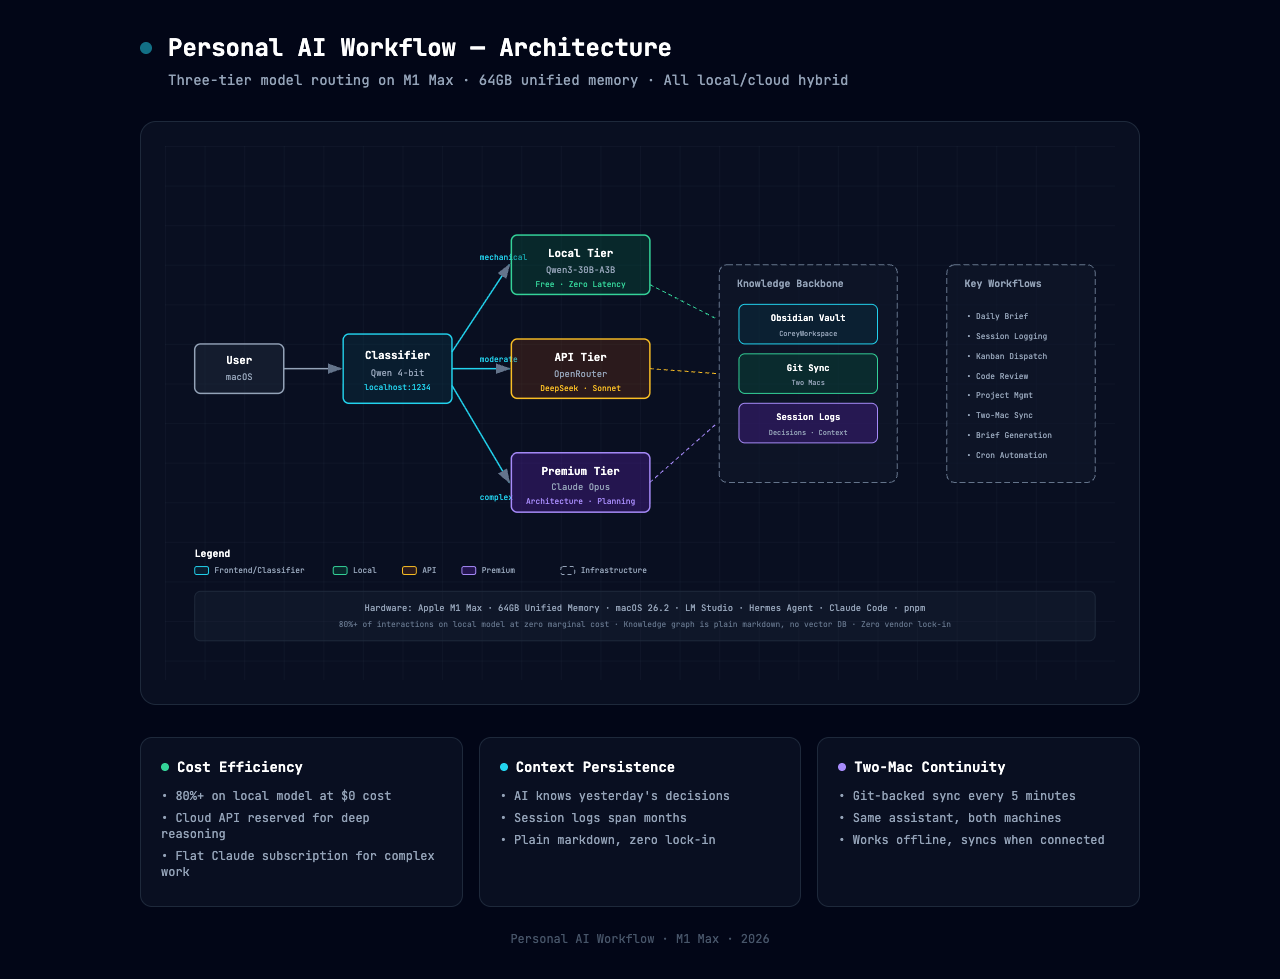
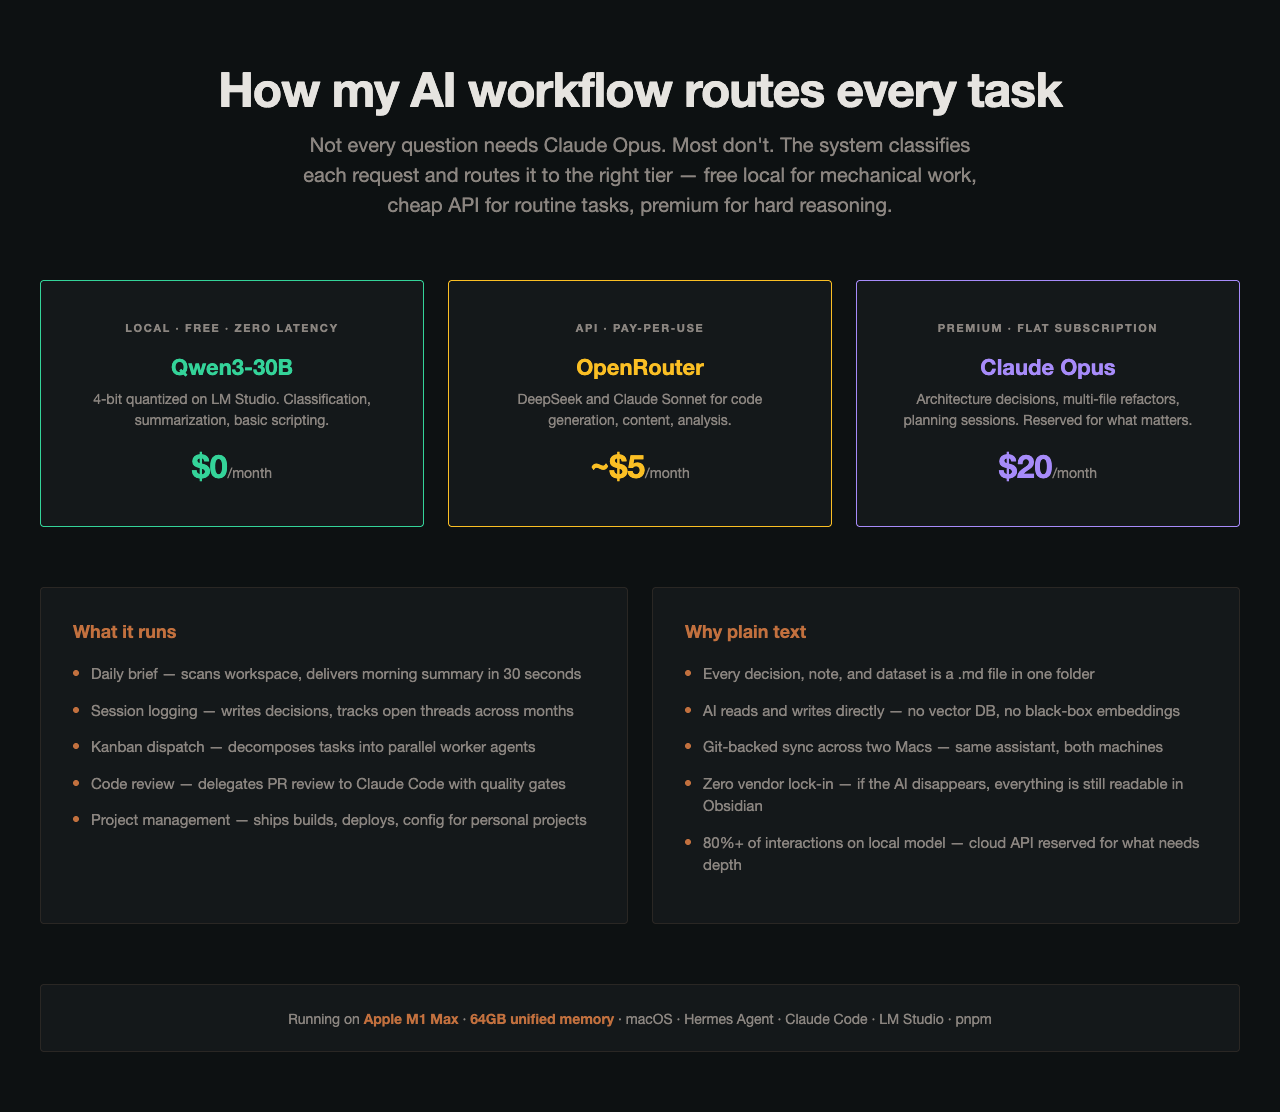
Rewrite AI Workflow project page (one-pager inspired) + replace diagram with readable version

diff --git a/src/content/projects/m1-assistant.md b/src/content/projects/m1-assistant.md
@@ -1,6 +1,6 @@
 ---
 title: "Personal AI Workflow"
-description: "Always-on AI assistant system running on an M1 Max. Routes tasks by complexity across local and cloud models, manages projects through Kanban dispatch, and keeps a persistent knowledge graph — all without sending routine work to cloud APIs."
+description: "Always-on AI assistant running on an M1 Max. Route tasks by complexity across local and cloud models — 80% on a free local model, premium reserved for what matters."
 date: 2025-01-10
 tags: ["ai", "llm", "local-ml", "automation", "personal-tools"]
 draft: false
@@ -9,36 +9,29 @@ status: "active"
 image: "/images/ai-workflow.png"
 ---
 
-## What it does
+## How it works
 
-This is the engine behind how I work. A personal AI workflow that runs on an M1 Max MacBook Pro, handling daily tasks — workspace briefings, session logging, task orchestration, code review delegation, project management — without pushing data to cloud APIs for routine work. It's the difference between "an AI helps me sometimes" and "the AI knows what I'm working on."
+My work runs through a setup that combines plain text files, an AI assistant in the terminal, and a tagged structure that connects everything. The core idea is routing: not every task needs Claude Opus. Most don't.
 
-The system replaced manual Claude Code CLI sessions with an agent that persists state across conversations. Before this, every AI interaction started from zero. Now the assistant reads my workspace, understands what's active, and picks up where the last session left off.
+The system classifies every request and sends it to the right tier:
 
-## Architecture
+**Local tier — free, zero latency.** Qwen3-30B-A3B running 4-bit quantized on LM Studio at `localhost:1234`. Handles classification, summarization, simple text transforms, and basic scripting. This is where 80%+ of all AI interactions land. Zero API cost. Zero network round trips.
 
-The routing logic is the core idea. Not every task needs Claude Opus. Most don't.
+**API tier — pay-per-use.** OpenRouter with DeepSeek and Claude Sonnet as fallbacks. The default for most real work: code generation, content writing, analysis that needs more than 4-bit reasoning. Roughly $5/month in practice.
 
-```
-User request → Classification → Route
-                ├── Mechanical   → Local Qwen3-30B (free, zero latency)
-                ├── Moderate     → OpenRouter cheap API
-                └── Complex      → Claude Opus (reserved for what matters)
-```
+**Premium tier — flat subscription.** Claude Opus for hard reasoning, multi-file refactors, and planning sessions where quality matters more than speed or cost. Reserved for the work that actually needs deep thought.
 
-**Local tier:** Qwen3-30B-A3B running 4-bit quantized through LM Studio at `localhost:1234`. Handles classification, summarization, simple text transforms, basic scripting. Zero API cost. Zero latency from network round trips.
+## The pieces
 
-**API tier:** OpenRouter with DeepSeek and Sonnet/Haiku as fallbacks. Default for most real work — code generation, content writing, analysis that needs more than 4-bit reasoning.
+Everything I write lives in `.md` files. A `.md` file is plain text with light formatting: a hash mark for a heading, a dash for a bullet. No special software needed. My whole workspace is a folder of these files — meetings, decisions, project briefs, research, journal entries. I use them because they're durable. Small, fast, searchable, and not trapped inside an app.
 
-**Premium tier:** Claude Opus for hard reasoning, multi-file refactors, and planning sessions where quality matters more than speed or cost.
+The second piece is an AI assistant that runs in the terminal. I type a request in plain English. The AI reads the relevant files in my workspace, answers, and edits files when I ask. Plain text plus an AI that can read and edit it is the combination that makes the rest of this work.
 
-The knowledge backbone is an Obsidian vault (CoreyWorkspace) with git-backed sync across two Macs. Session logs, decisions, datasets, and canon are all plain markdown files that the AI reads and writes directly. No vector database. No black-box embedding store. Just files and git.
-
-## Key workflows
+## What it runs
 
 **Daily brief.** Every morning the system scans active workstreams, meeting notes, and the kanban board. Generates a compact briefing in the journal. Takes 30 seconds instead of 15 minutes of tab-switching.
 
-**Session logging.** After a work session, the assistant writes a third-person prose log — what got decided, by whom, what's still open. These accumulate into a searchable history that spans months. No more "what did we decide about that?"
+**Session logging.** After a work session, the assistant writes a third-person prose log — what got decided, by whom, what's still open. These accumulate into a searchable history that spans months. No more "what did we agree about that?"
 
 **Kanban dispatch.** Large tasks get decomposed into specialist worker agents with dependency chains. The dispatcher runs them in parallel where possible, serializes where there are gates. I review the outputs; the AI handles the routing.
 
@@ -46,12 +39,15 @@ The knowledge backbone is an Obsidian vault (CoreyWorkspace) with git-backed syn
 
 **Project management.** Builds, deployments, and configuration for personal projects (UXRStudy, coreyhobson.com) run through the assistant. I describe what I want; the system figures out how to ship it.
 
-## What it achieves
+## Why this works
 
-- **Cost efficiency.** 80%+ of AI interactions run on the local model at zero marginal cost. Cloud API spend is reserved for tasks that genuinely need the reasoning depth.
-- **Context persistence.** The AI doesn't reset every session. It knows what I worked on yesterday and what's due this week.
-- **Two-Mac continuity.** Same assistant, same memory, synced via git. Work Mac and personal Mac stay in lockstep without manual synchronization.
-- **Zero-vendor lock-in.** The knowledge graph is plain markdown. If the assistant disappears tomorrow, every decision, note, and dataset is still readable in Obsidian.
+**Context persistence.** The AI doesn't reset every session. It knows what I worked on yesterday and what's due this week. Long-running work doesn't have to be re-explained every time.
+
+**Two-Mac continuity.** Same assistant, same memory, synced via git every 5 minutes. Work Mac and personal Mac stay in lockstep without manual synchronization.
+
+**Zero vendor lock-in.** The knowledge graph is plain markdown. If the assistant disappears tomorrow, every decision, note, and dataset is still readable in Obsidian. No vector database. No black-box embedding store. Just files and git.
+
+**Cost efficiency.** 80%+ of AI interactions run on the local model at zero marginal cost. Cloud API spend is reserved for tasks that genuinely need the reasoning depth. A flat Claude subscription covers the rest.
 
 ## Stack
 